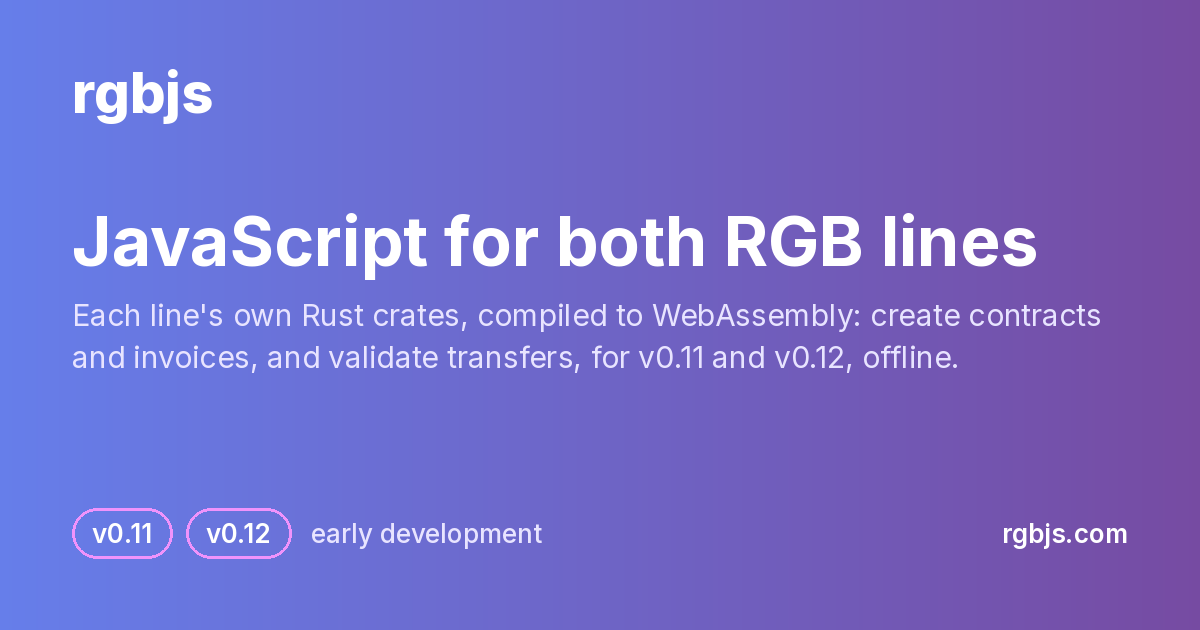
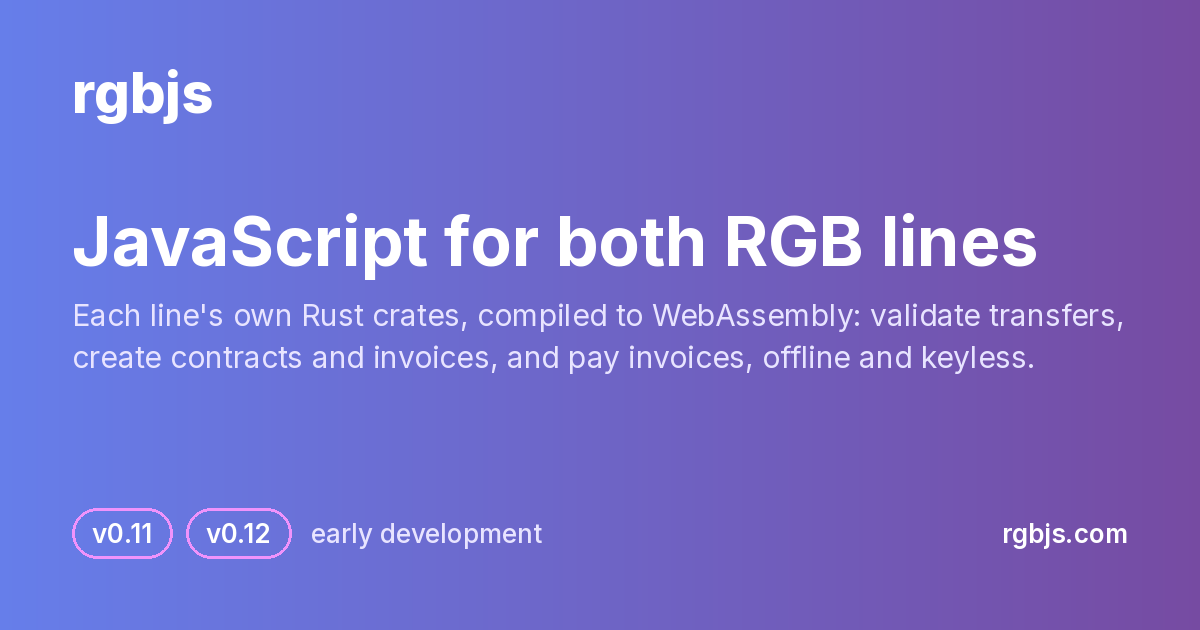
Landing: rgbjs pays now (v0.12, opret or tapret), keyless; link Bunting; fix the subpath names
The page still said read-only, promised paying for later, and named
@rgbjs/v011 and @rgbjs/v012, which don't exist: the imports are rgbjs/v011
and rgbjs/v012.

Changed region(s): [[0.0617, 0.4825, 0.925, 0.6032]]

diff --git a/index.html b/index.html
@@ -7,7 +7,7 @@
     <title>rgbjs: JavaScript for both RGB lines</title>
     <meta
       name="description"
-      content="JavaScript for both RGB lines (v0.11 and v0.12): create contracts and invoices, and validate transfers, offline, with each line's own Rust crates compiled to WebAssembly. Early development."
+      content="JavaScript for both RGB lines (v0.11 and v0.12): validate transfers, create contracts and invoices, and pay invoices (v0.12, OP_RETURN or tapret), offline and keyless, with each line's own Rust crates compiled to WebAssembly. Early development."
     />
 
     <!-- Open Graph / Twitter -->
@@ -16,15 +16,15 @@
     <meta property="og:site_name" content="rgbjs" />
     <meta property="og:url" content="https://rgbjs.com/" />
     <meta property="og:title" content="rgbjs: JavaScript for both RGB lines" />
-    <meta property="og:description" content="JavaScript for both RGB lines (v0.11 and v0.12): create contracts and invoices, and validate transfers, offline, with each line's own Rust crates compiled to WebAssembly. Early development." />
-    <meta property="og:image" content="https://rgbjs.com/img/og.png" />
+    <meta property="og:description" content="JavaScript for both RGB lines (v0.11 and v0.12): validate transfers, create contracts and invoices, and pay invoices (v0.12, OP_RETURN or tapret), offline and keyless, with each line's own Rust crates compiled to WebAssembly. Early development." />
+    <meta property="og:image" content="https://rgbjs.com/img/og.png?v=2" />
     <meta property="og:image:width" content="1200" />
     <meta property="og:image:height" content="630" />
     <meta property="og:image:alt" content="rgbjs: JavaScript for both RGB lines, v0.11 and v0.12" />
     <meta name="twitter:card" content="summary_large_image" />
     <meta name="twitter:title" content="rgbjs: JavaScript for both RGB lines" />
-    <meta name="twitter:description" content="JavaScript for both RGB lines (v0.11 and v0.12): create contracts and invoices, and validate transfers, offline, with each line's own Rust crates compiled to WebAssembly. Early development." />
-    <meta name="twitter:image" content="https://rgbjs.com/img/og.png" />
+    <meta name="twitter:description" content="JavaScript for both RGB lines (v0.11 and v0.12): validate transfers, create contracts and invoices, and pay invoices (v0.12, OP_RETURN or tapret), offline and keyless, with each line's own Rust crates compiled to WebAssembly. Early development." />
+    <meta name="twitter:image" content="https://rgbjs.com/img/og.png?v=2" />
 
     <style>
       :root {
@@ -434,6 +434,9 @@
             <a href="check.html" class="btn btn-secondary">
               Check an invoice or file
             </a>
+            <a href="https://bitcoin-blake.github.io/bunting/" class="btn btn-secondary">
+              See it in a wallet
+            </a>
             <a href="conformance.html" class="btn btn-secondary">
               Run the tests in your browser
             </a>
@@ -462,19 +465,20 @@
             <div class="feature-icon">🔀</div>
             <h3>Both lines</h3>
             <p>
-              <code>@rgbjs/v011</code> and <code>@rgbjs/v012</code> wrap each
+              <code>rgbjs/v011</code> and <code>rgbjs/v012</code> wrap each
               line's crates. <code>rgbjs</code> tells you which line an invoice
-              belongs to and sends it to the right one.
+              or file belongs to and sends it to the right one.
             </p>
           </div>
 
           <div class="feature-card fade-in-delay-1">
             <div class="feature-icon">🔒</div>
-            <h3>Read-only first</h3>
+            <h3>No keys, offline</h3>
             <p>
-              The first release holds no keys and opens no network
-              connections: it parses and writes invoices, formats contract IDs
-              and checks consignments offline.
+              rgbjs never holds a key. A payment comes back as an unsigned
+              PSBT for your own signer, with the transfer for the payee. It
+              works offline; its only network call is an opt-in lookup of
+              witness transactions.
             </p>
           </div>
 
@@ -521,28 +525,32 @@ result.valid        // valid if its witness transactions confirm</code></pre>
             <h3>Works now</h3>
             <p>
               Both lines: parse invoices and contract IDs, tell the lines
-              apart, validate contracts and transfers offline, and issue
-              contracts and invoices on test networks.
+              apart, validate contracts and transfers offline, issue contracts
+              and invoices on test networks, and see what a transfer pays you.
+              v0.12: pay invoices, committing with OP_RETURN or tapret.
               <a href="create.html">Create</a> or <a href="check.html">check</a>
               your own. The
               <a href="conformance.html">conformance page</a> runs the
-              upstream test vectors in your browser.
+              upstream test vectors and payments mined on a test network in
+              your browser. <a href="https://bitcoin-blake.github.io/bunting/">Bunting</a>,
+              a wallet in a browser tab, uses rgbjs on the Bitcoin BLAKE2b
+              testnet4.
             </p>
           </div>
 
           <div class="use-case">
             <h3>Next</h3>
             <p>
-              Transfer consignment vectors for both lines, then a first npm
-              release. Version 0.0.1 until then.
+              A first npm release, then payments for v0.11. Version 0.0.1
+              until then.
             </p>
           </div>
 
           <div class="use-case">
             <h3>Later</h3>
             <p>
-              Wallet features such as paying and accepting transfers, once the
-              read-only layer is solid.
+              NFT transfers (RGB21), which the pinned v0.12 code can't build
+              yet, and whatever the wallets built on rgbjs need.
             </p>
           </div>
 

diff --git a/scripts/og.py b/scripts/og.py
@@ -14,8 +14,8 @@ WHITE, SOFT, PILL = (255, 255, 255), (232, 228, 255), (240, 147, 251)
 
 CARDS = {
     'og.png': ('JavaScript for both RGB lines',
-               "Each line's own Rust crates, compiled to WebAssembly: create contracts and invoices, "
-               'and validate transfers, for v0.11 and v0.12, offline.'),
+               "Each line's own Rust crates, compiled to WebAssembly: validate transfers, create "
+               'contracts and invoices, and pay invoices, offline and keyless.'),
     'og-create.png': ('Create an RGB contract or invoice',
                       'Issue a token or make an invoice on a test network, for either RGB line, '
                       'offline in your browser.'),
